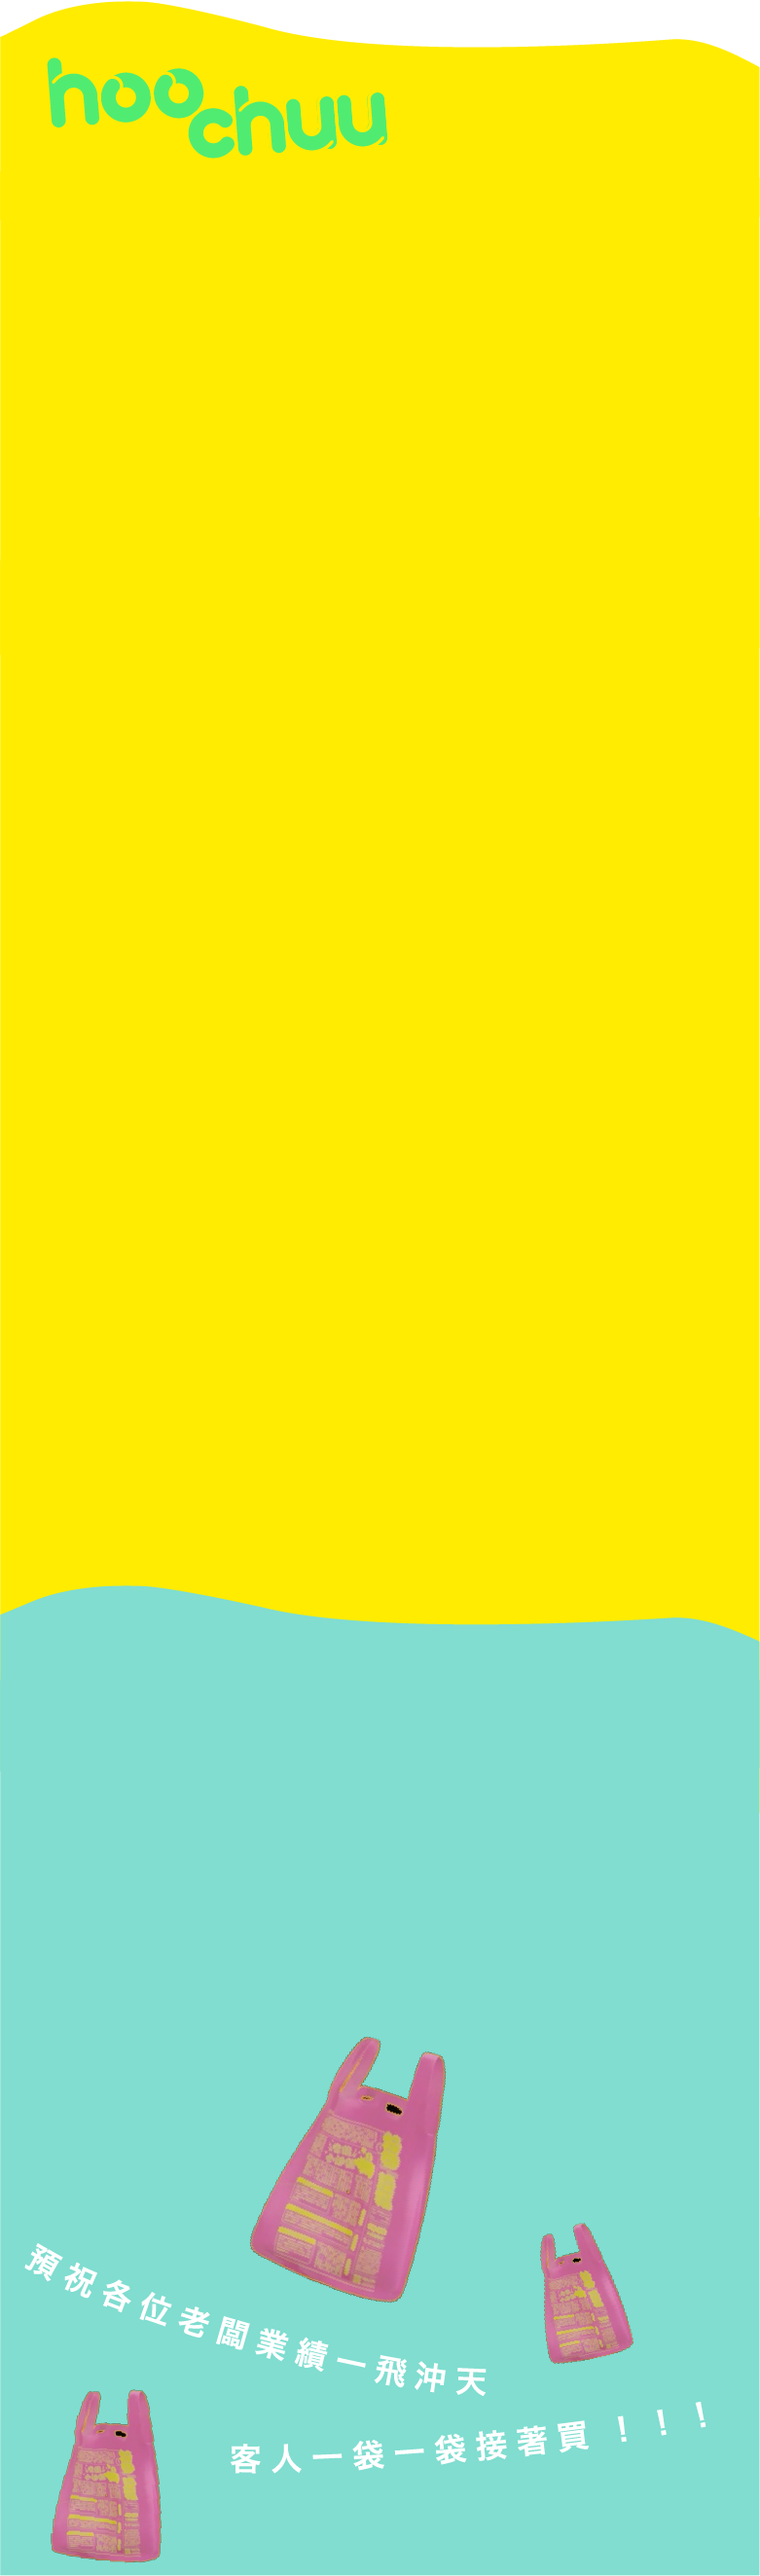
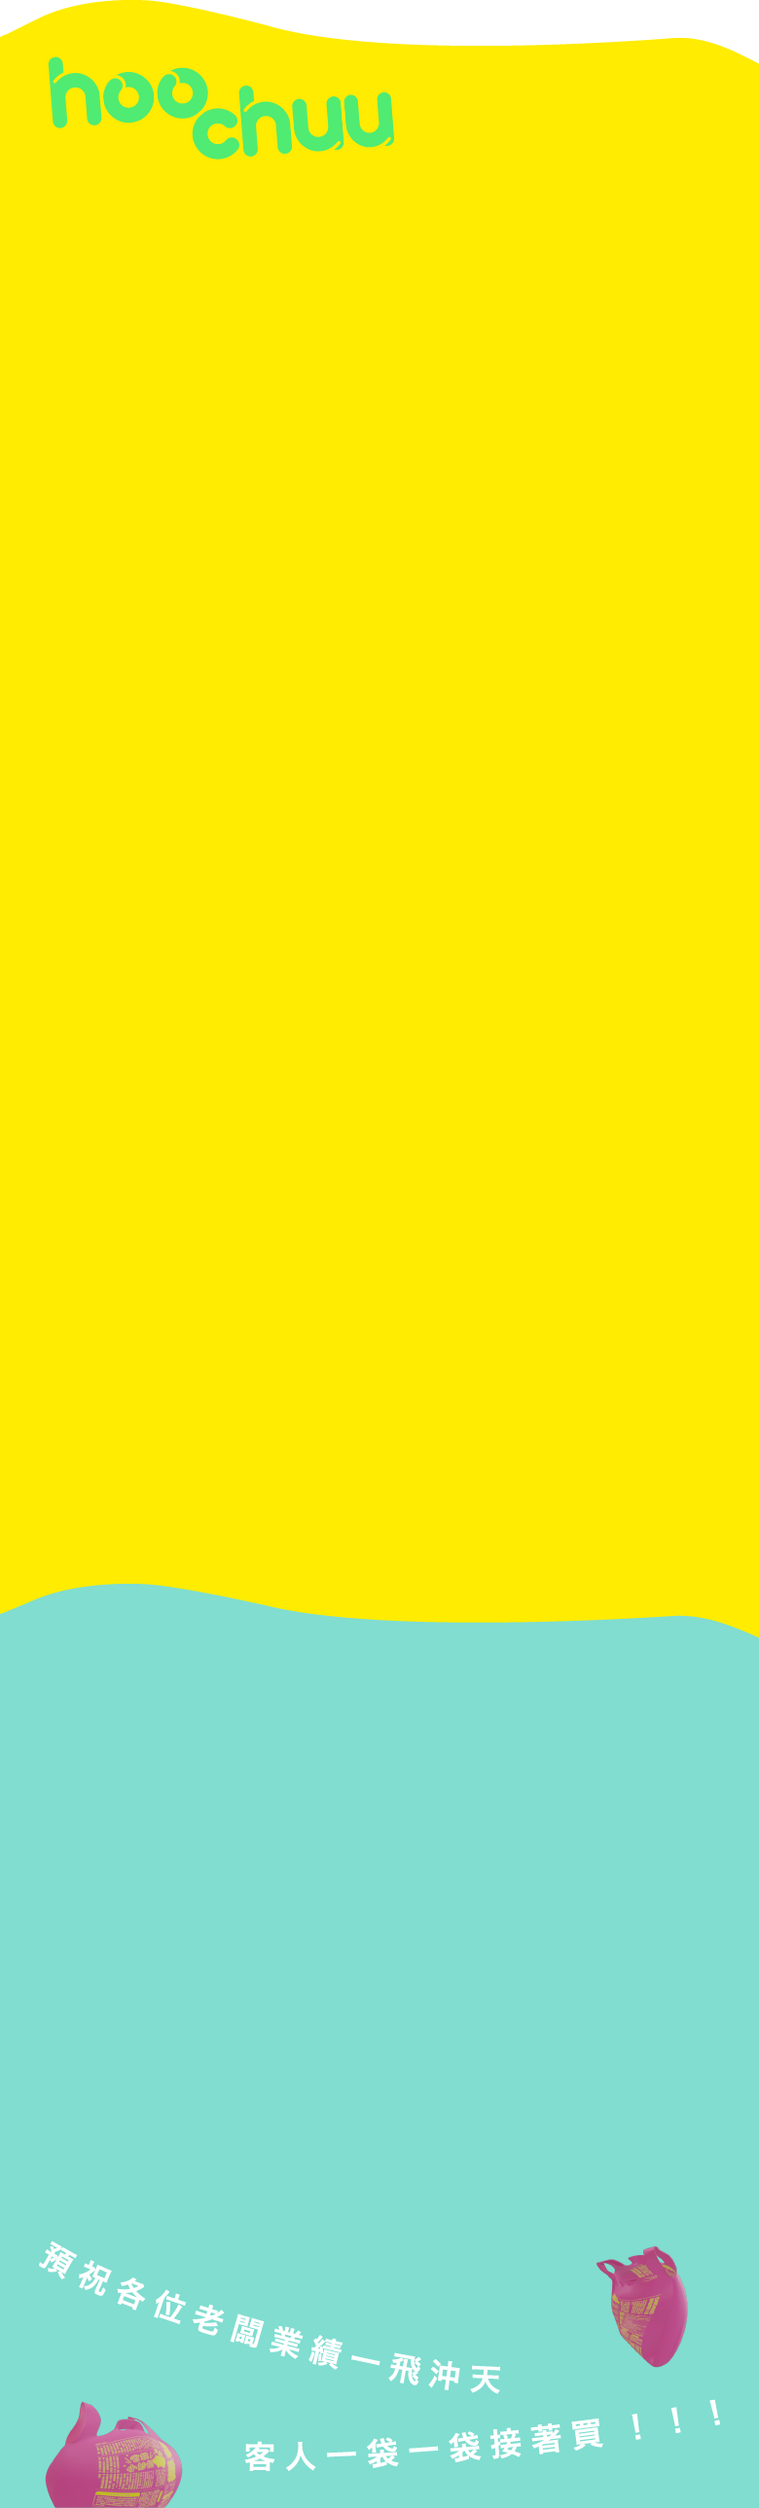
add lottie RWD in form

diff --git a/apply/style.css b/apply/style.css
@@ -225,6 +225,7 @@ a.nostyle:visited {
     background-color: white;
     font-weight: bold;
     font-size: 20px;
+    z-index: 7;
 }
 
 .popup{
@@ -277,7 +278,7 @@ a.nostyle:visited {
 #lottie1 {
     width: 20vw;
     position: absolute;
-    top: 150vh;
+    top: 140vh;
     left: 50vw;
     transform: translate(-50%);
     z-index: 6;
@@ -364,6 +365,14 @@ a.nostyle:visited {
     }
     .footer__link {
         margin: 20vw 0 5vw 0;
+    }
+    #lottie1 {
+        width: 40vw;
+        position: absolute;
+        top: 130vh;
+        left: 50vw;
+        transform: translate(-50%);
+        z-index: 6;
     }
 }
 
